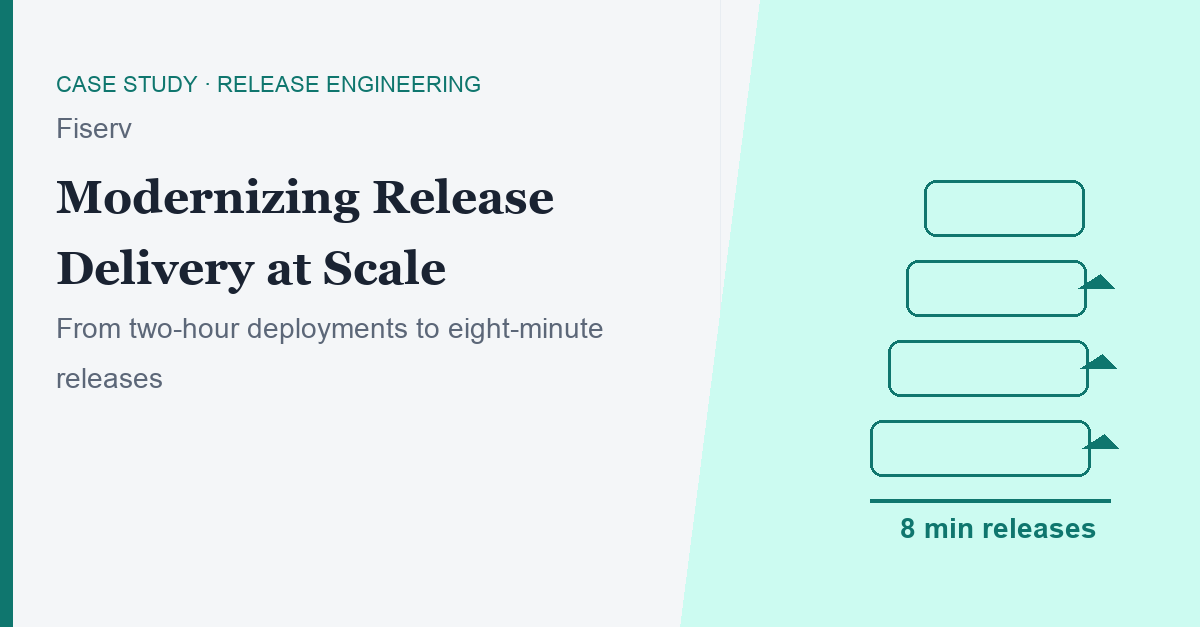
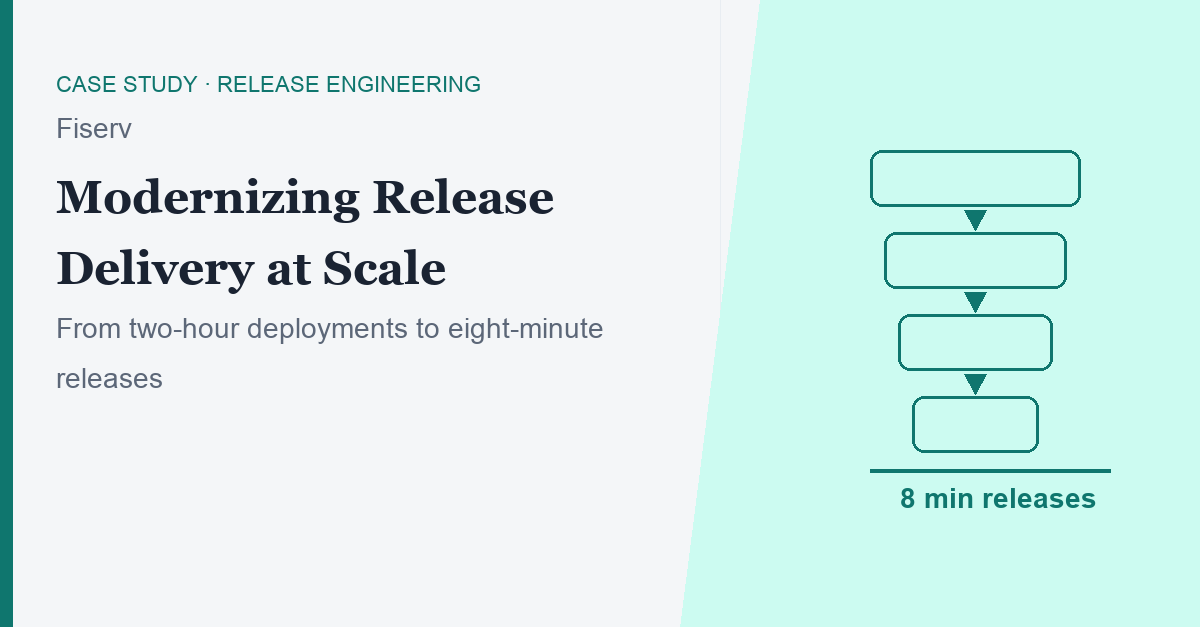
Fix overlapping arrows on Fiserv case study thumbnail.
Use downward arrows centered in the gaps between pipeline boxes instead of right-pointing triangles drawn inside the box edges.

diff --git a/scripts/generate-thumbnails.py b/scripts/generate-thumbnails.py
@@ -190,27 +190,38 @@ def draw_fiserv() -> Path:
     image, draw = base_canvas("#0f766e", "#ccfbf1")
     accent = rgb("#0f766e")
 
-    start_x = 870
-    for index, y in enumerate((420, 340, 260, 180)):
-        width = 220 - index * 20
+    boxes = [
+        (870, 150, 1080, 206),
+        (884, 232, 1066, 288),
+        (898, 314, 1052, 370),
+        (912, 396, 1038, 452),
+    ]
+
+    for index, (left, top, right, bottom) in enumerate(boxes):
         draw.rounded_rectangle(
-            (start_x + index * 18, y, start_x + index * 18 + width, y + 56),
+            (left, top, right, bottom),
             radius=12,
             outline=accent,
             width=3,
         )
-        if index < 3:
+
+        if index < len(boxes) - 1:
+            _, next_top, _, _ = boxes[index + 1]
+            center_x = (left + right) // 2
+            arrow_top = bottom + 6
+            arrow_bottom = next_top - 6
+            center_y = (arrow_top + arrow_bottom) // 2
             draw.polygon(
                 [
-                    (start_x + index * 18 + width - 8, y + 28),
-                    (start_x + index * 18 + width + 28, y + 28),
-                    (start_x + index * 18 + width + 14, y + 14),
+                    (center_x - 11, center_y - 9),
+                    (center_x + 11, center_y - 9),
+                    (center_x, center_y + 11),
                 ],
                 fill=accent,
             )
 
-    draw.line((870, 500, 1110, 500), fill=accent, width=4)
-    draw.text((900, 512), "8 min releases", font=load_font(FONT_SANS, 28), fill=accent)
+    draw.line((870, 470, 1110, 470), fill=accent, width=4)
+    draw.text((900, 482), "8 min releases", font=load_font(FONT_SANS, 28), fill=accent)
 
     fonts = {
         "tag": load_font(FONT_SANS_REG, 22),